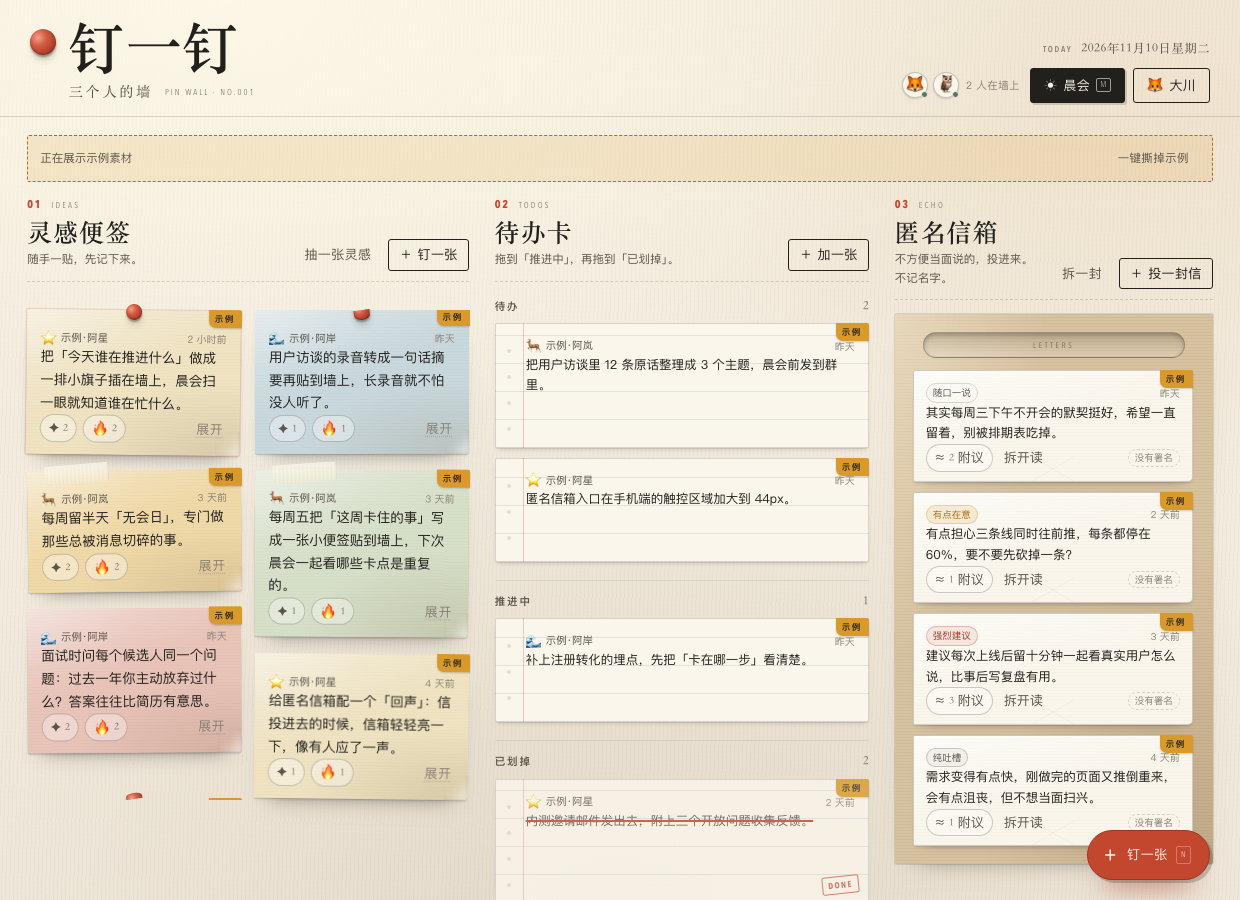
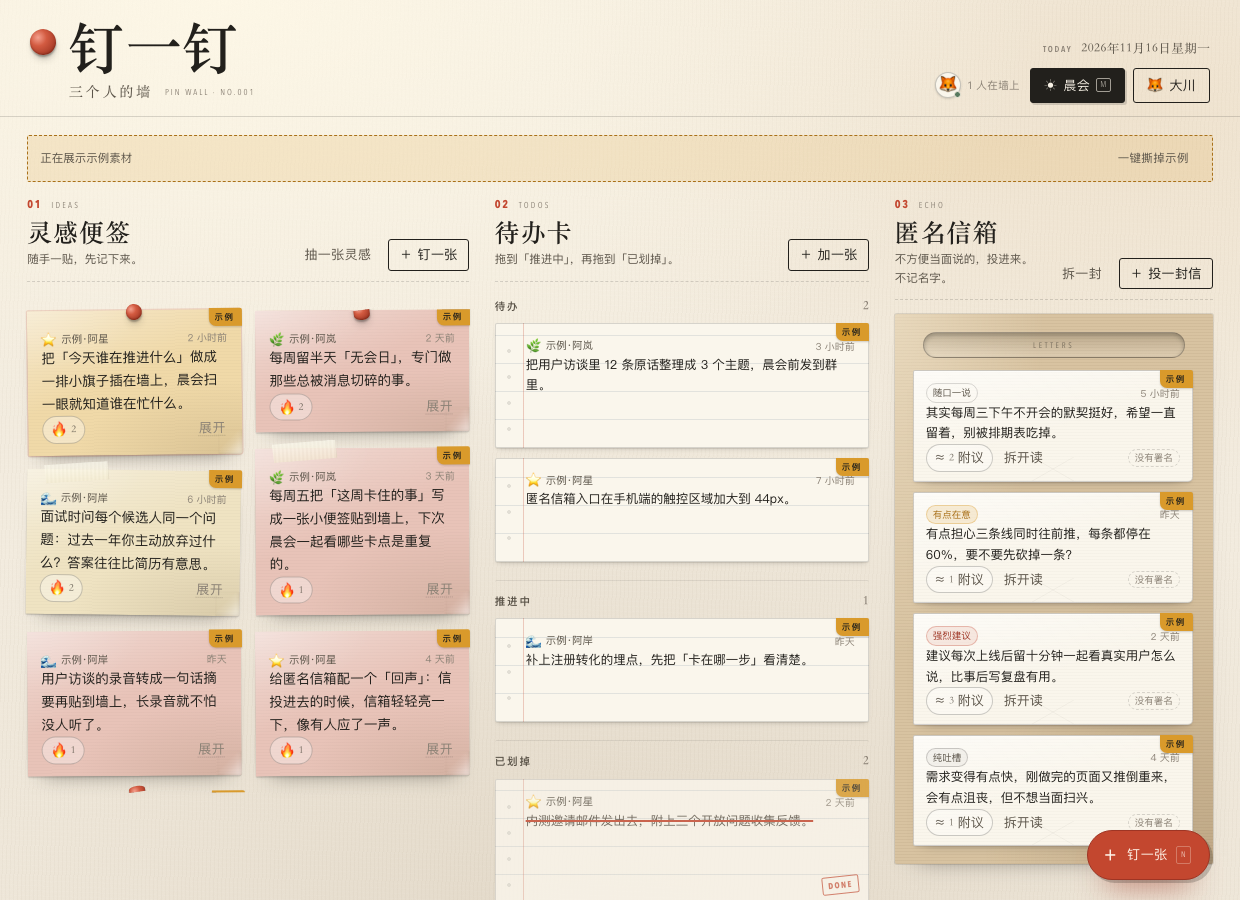
Remove the spark reaction; keep only the fire stamp on ideas

Changed region(s): [[0.0, 0.3422, 0.3984, 0.9022], [0.7355, 0.0622, 0.7661, 0.1244], [0.9194, 0.56, 0.95, 0.5911]]

diff --git a/client.js b/client.js
@@ -45,7 +45,6 @@ window.__ModuleLoader__.load({
       addTodo: '加一张',
       drawLetter: '拆一封',
       writeLetter: '投一封信',
-      thanks: '点亮',
       fire: '有戏',
       echoSecond: '附议',
       pinned: '已钉到最前',
@@ -194,7 +193,6 @@ window.__ModuleLoader__.load({
       addTodo: 'Add card',
       drawLetter: 'Draw a letter',
       writeLetter: 'Write a letter',
-      thanks: 'Light it',
       fire: 'Love it',
       echoSecond: 'Second',
       pinned: 'Pinned to top',
@@ -2692,10 +2690,7 @@ window.__ModuleLoader__.load({
         actions.updateIdea(idea, { text: next }).then(() => setEditing(false)).catch(() => {});
       }
 
-      const reactions = [
-        { kind: 'spark', label: t('thanks'), icon: '✦' },
-        { kind: 'fire', label: t('fire'), icon: '🔥' },
-      ];
+      const reactions = [{ kind: 'fire', label: t('fire'), icon: '🔥' }];
 
       return h(
         'article',

diff --git a/lib/index.js b/lib/index.js
@@ -26,7 +26,7 @@ const PUBLIC_DIR = path.join(PACKAGE_ROOT, 'public');
 
 /** 插件身份：与 package.json 的 name 保持一致（client bundle 也用它）。 */
 export const PLUGIN_ID = 'ding-wall';
-export const PLUGIN_VERSION = '0.2.1';
+export const PLUGIN_VERSION = '0.2.3';
 
 export const name = PLUGIN_ID;
 /** 不强制依赖任何服务：Web 服务可能晚于本插件激活。 */
